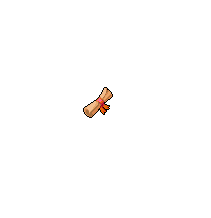
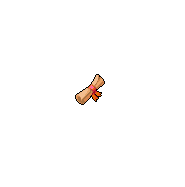
Full modularized code and working scroll animation with correct initial position

Changed region(s): [[0.3784, 0.3743, 0.5676, 0.5615]]

diff --git a/libraries/sprites.py b/libraries/sprites.py
@@ -1,9 +1,13 @@
+from __future__ import absolute_import
+
 import os
 
 import pygame
 
-from literals import SEX_MALE
-from vec2d import vec2d
+from .exceptions import LevelComplete
+from .literals import COLOR_ALMOST_BLACK, COLOR_BLACK, COLOR_WHITE, SEX_MALE
+from .utils import outlined_text
+from .vec2d import vec2d
 
 
 class PlayerSprite(pygame.sprite.Sprite):
@@ -31,7 +35,7 @@ class PlayerSprite(pygame.sprite.Sprite):
 
     def update(self, time_passed):
         if self.has_won:
-            if not self.scroll_position[1] < self.pos[1] - 40:
+            if not self.scroll_position[1] < self.scroll_original_position[1] - 40:
                 displacement = vec2d(
                     self.scroll_direction.x * self.scroll_speed * time_passed,
                     self.scroll_direction.y * self.scroll_speed * time_passed
@@ -39,6 +43,7 @@ class PlayerSprite(pygame.sprite.Sprite):
                 self.scroll_position += displacement
             else:
                 if self.win_time + 8000 < pygame.time.get_ticks():
+                    self.game.can_be_paused = True
                     raise LevelComplete
 
     def blit(self):
@@ -47,12 +52,12 @@ class PlayerSprite(pygame.sprite.Sprite):
             self.game.screen.blit(self.scroll, self.scroll_position)
 
     def result(self, result):
-        if len(result) != 0:
+        if len(result) != 0 and not self.has_won:
             thought_size = self.thought_image.get_size()
             self.game.screen.blit(self.thought_image, (self.pos[0] + thought_size[1] / 2, self.pos[1] - 20))
 
             text_size = self.result_font.size(result)
-            label = textOutline(self.result_font, result, COLOR_WHITE, COLOR_ALMOST_BLACK)
+            label = outlined_text(self.result_font, result, COLOR_WHITE, COLOR_ALMOST_BLACK)
             self.game.screen.blit(label, (self.pos[0] + self.size[0] / 2 - text_size[0] / 2, self.pos[1] - 30))
 
     def win(self):
@@ -61,7 +66,8 @@ class PlayerSprite(pygame.sprite.Sprite):
             self.has_won = True
             self.win_sound.play()
             self.scroll_direction = (vec2d(self.pos[0], 0) - vec2d(self.pos)).normalized()
-            self.scroll_position = self.pos
+            self.scroll_position = ((self.pos[0] + self.size[0] / 2) - self.scroll.get_size()[0] / 2, self.pos[1] - 80)
+            self.scroll_original_position = self.scroll_position
             self.win_time = pygame.time.get_ticks()
             self.game.can_be_paused = False
 
@@ -154,7 +160,7 @@ class EnemySprite(pygame.sprite.Sprite):
         if self.alive:
             # If enemy is alive show it's formula
             text_size = self.font.size(self.text)
-            label = textOutline(self.font, self.text, COLOR_WHITE, COLOR_ALMOST_BLACK)
+            label = outlined_text(self.font, self.text, COLOR_WHITE, COLOR_ALMOST_BLACK)
 
             self.game.screen.blit(label, (self.pos.x + self.size[0] / 2 - text_size[0] / 2, self.pos.y - 11))
 

diff --git a/libraries/utils.py b/libraries/utils.py
@@ -1,3 +1,6 @@
+import pygame
+
+
 def aspect_scale(img,(bx,by)):
     """ Scales 'img' to fit into box bx/by.
      This method will retain the original image's aspect ratio """
@@ -26,7 +29,7 @@ def aspect_scale(img,(bx,by)):
     return pygame.transform.scale(img, (int(sx), int(sy)))
 
 
-def textHollow(font, message, fontcolor):
+def hollow_text(font, message, fontcolor):
     notcolor = [c^0xFF for c in fontcolor]
     base = font.render(message, 0, fontcolor, notcolor)
     size = base.get_width() + 2, base.get_height() + 2
@@ -44,9 +47,9 @@ def textHollow(font, message, fontcolor):
     return img
 
 
-def textOutline(font, message, fontcolor, outlinecolor):
+def outlined_text(font, message, fontcolor, outlinecolor):
     base = font.render(message, 0, fontcolor)
-    outline = textHollow(font, message, outlinecolor)
+    outline = hollow_text(font, message, outlinecolor)
     img = pygame.Surface(outline.get_size(), 16)
     img.blit(base, (1, 1))
     img.blit(outline, (0, 0))

diff --git a/libraries/engine.py b/libraries/engine.py
@@ -9,7 +9,9 @@ import sys
 import pygame
 
 from .exceptions import LevelComplete
-from .literals import DEFAULT_SCREENSIZE, GAME_TITLE
+from .literals import (COLOR_ALMOST_BLACK, COLOR_BLACK, COLOR_WHITE,
+    DEFAULT_SCREENSIZE, GAME_TITLE, PAUSE_TEXT, PAUSE_TEXT_VERTICAL_OFFSET,
+    START_MESSAGE_TEXT)
 from .maps import Map1, Map2, Map3, Map4
 from .sprites import EnemySprite, PlayerSprite
 from .vec2d import vec2d

diff --git a/game.py b/game.py
@@ -1,4 +1,4 @@
 #!/usr/bin/env python
-from engine import Game
+from libraries.engine import Game
 
-Game.run()
+Game().run()
